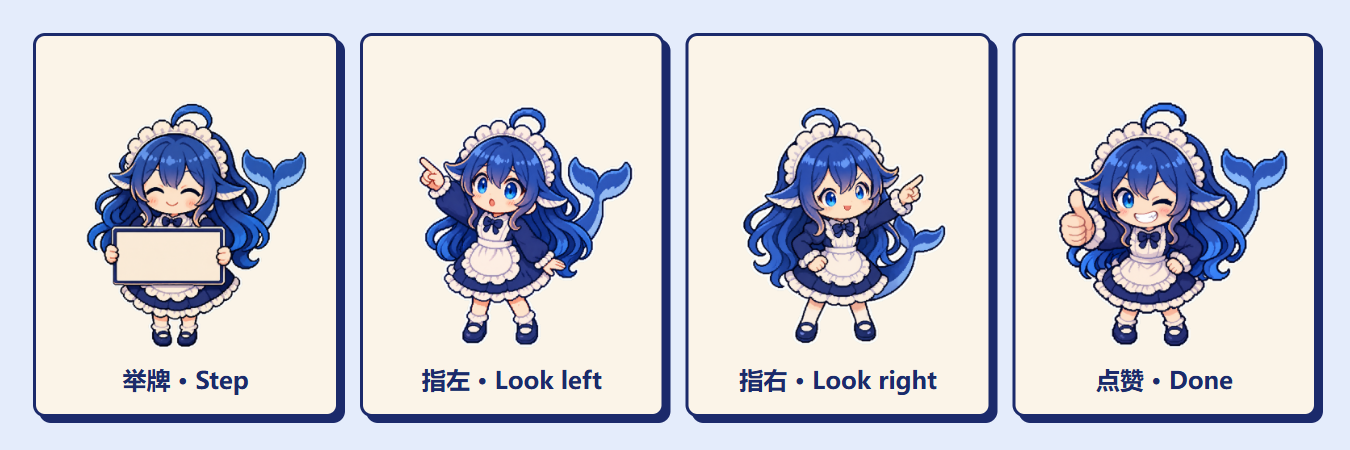
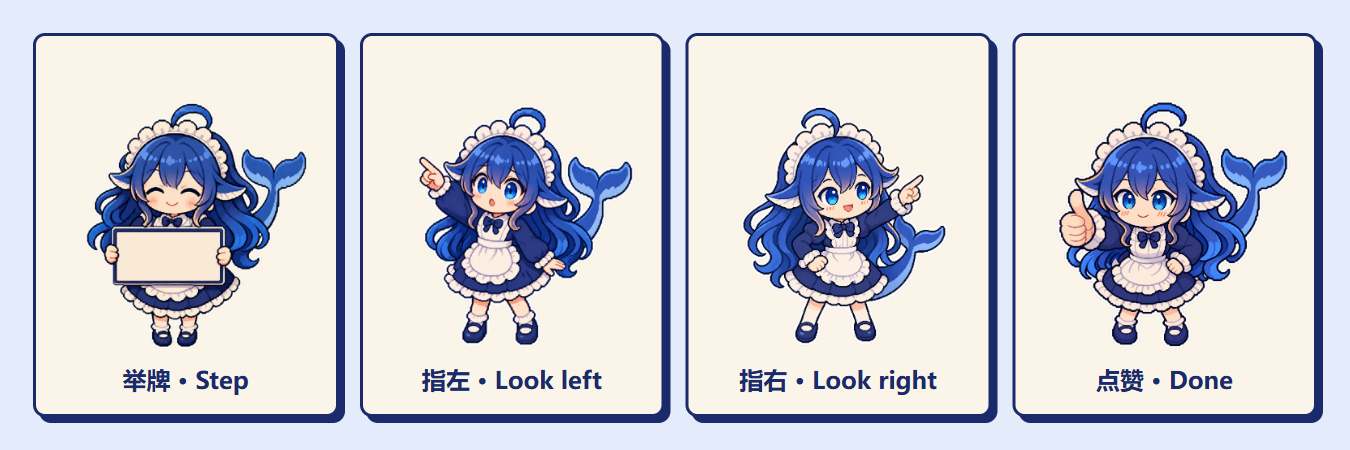
Match the guide expressions to the original whale girl stickers

diff --git a/images/whale-girl/README.md b/images/whale-girl/README.md
@@ -25,15 +25,15 @@ Die Originale dienen der Gestaltung und Dokumentation. Das Plugin lädt transpar
 
 ## Guide poses · 引导员动作 · Posen der Begleiterin
 
-Four poses guide readers through the step-by-step screenshots on the project page. They were produced with an image generator from the waving and note-taking stickers above, and the green background was removed locally. The files here are 1264 × 1264 transparent PNGs. The plugin does not bundle them.
+Four poses guide readers through the step-by-step screenshots on the project page. They were produced with an image generator from the waving and note-taking stickers above, and the green background was removed locally. All guide poses are transparent PNGs. Poses 07 and 08 are 1264 × 1264, and the revised poses 09 and 10 are 1254 × 1254. The plugin does not bundle them.
 
-四款动作用在项目主页的分步引导截图里。它们以上面的挥手和记笔记贴纸为参考，由图像生成工具生成，再在本地去掉绿色背景。这里的文件是 1264 × 1264 透明 PNG，不随插件安装。
+四款动作用在项目主页的分步引导截图里。它们以上面的挥手和记笔记贴纸为参考，由图像生成工具生成，再在本地去掉绿色背景。引导图均为透明 PNG。07、08 号为 1264 × 1264，重画后的 09、10 号为 1254 × 1254，不随插件安装。
 
-Vier Posen begleiten die Schritt-für-Schritt-Bildschirmfotos auf der Projektseite. Sie wurden mit einem Bildgenerator aus den Stickern für Begrüßung und Notizen oben erzeugt, der grüne Hintergrund wurde lokal entfernt. Die Dateien hier sind transparente PNGs mit 1264 × 1264 Pixeln. Das Plugin enthält sie nicht.
+Vier Posen begleiten die Schritt-für-Schritt-Bildschirmfotos auf der Projektseite. Sie wurden mit einem Bildgenerator aus den Stickern für Begrüßung und Notizen oben erzeugt, der grüne Hintergrund wurde lokal entfernt. Alle Posen sind transparente PNGs. 07 und 08 messen 1264 × 1264 Pixel, die überarbeiteten Posen 09 und 10 messen 1254 × 1254 Pixel. Das Plugin enthält sie nicht.
 
 | Illustration | 场景 | Where it appears | Einsatzort |
 | --- | --- | --- | --- |
 | <a href="07-guide-sign.png"><img src="07-guide-sign.png" width="120" alt="举牌 / Holding a sign / Schild halten"></a> | 每组引导的起始步和对话框步骤 | First step of each guide and dialog steps | Erster Schritt jeder Anleitung und Dialogschritte |
 | <a href="08-guide-point-left.png"><img src="08-guide-point-left.png" width="120" alt="指左 / Pointing left / Nach links zeigen"></a> | 标注在左侧的步骤 | Steps whose callouts are on the left | Schritte mit Markierungen links |
-| <a href="09-guide-point-right.png"><img src="09-guide-point-right.png" width="120" alt="指右 / Pointing right / Nach rechts zeigen"></a> | 标注在右侧的步骤；2026-11-13 按形象基线重画脸部 | Steps whose callouts are on the right; face redrawn to the character baseline on 2026-11-13 | Schritte mit Markierungen rechts; Gesicht am 13.11.2026 nach der Charaktervorgabe neu gezeichnet |
-| <a href="10-guide-thumbs-up.png"><img src="10-guide-thumbs-up.png" width="120" alt="点赞 / Thumbs up / Daumen hoch"></a> | 每组引导的最后一步 | Last step of a guide | Letzter Schritt einer Anleitung |
+| <a href="09-guide-point-right.png"><img src="09-guide-point-right.png" width="120" alt="指右 / Pointing right / Nach rechts zeigen"></a> | 标注在右侧的步骤，睁眼浅笑 | Steps with callouts on the right, eyes open with a small smile | Schritte mit Markierungen rechts, offene Augen und ein kleines Lächeln |
+| <a href="10-guide-thumbs-up.png"><img src="10-guide-thumbs-up.png" width="120" alt="点赞 / Thumbs up / Daumen hoch"></a> | 引导的最后一步，闭嘴微笑 | Last step of a guide, with a soft closed-mouth smile | Letzter Schritt einer Anleitung, mit einem sanften Lächeln |

diff --git a/README.de.md b/README.de.md
@@ -70,7 +70,7 @@ Für Desktop die integrierte Pluginverwaltung verwenden. Eine Installation im Pr
 
 Das Walmädchen führt durch die Anleitung. Die Nummern in jedem Bildschirmfoto gehören zu den Schritten darunter, und das Schild zeigt die Position in der Abfolge. Die Bildschirmfotos zeigen Beispieldokumente im Design Marine-Pixel. Die Oberfläche ist chinesisch.
 
-![Die vier Posen der Begleiterin: Schild halten, nach links zeigen, nach rechts zeigen, Daumen hoch](images/guide/guide-poses.png)
+![Vier Posen des Walmädchens: Schild halten, nach links zeigen, lächelnd nach rechts zeigen und Daumen hoch](images/guide/guide-poses.png)
 
 ### Bibliothek: importieren und ordnen
 

diff --git a/README.md b/README.md
@@ -70,7 +70,7 @@ For Desktop, use its plugin manager. A `web` profile installation does not insta
 
 The whale girl is your guide. The numbers in each screenshot match the steps below it, and her sign shows where you are in the sequence. The screenshots use sample documents and the Navy Pixel theme. The interface is in Chinese.
 
-![The guide’s four poses: holding a sign, pointing left, pointing right, thumbs up](images/guide/guide-poses.png)
+![Four whale girl poses: holding a sign, pointing left, pointing right with a small smile, and giving a thumbs up](images/guide/guide-poses.png)
 
 ### Library: import and organize
 

diff --git a/README.zh-CN.md b/README.zh-CN.md
@@ -70,7 +70,7 @@ dsh plugin --profile web add "github:Popipot/DSH-Reading-Plugin#main"
 
 鲸鱼娘是这里的引导员。每张截图里的编号对应图下的步骤，右下角的牌子标出这是第几步。截图使用示例文档和「藏青像素」主题。
 
-![引导员的四个动作：举牌、指左、指右、点赞](images/guide/guide-poses.png)
+![鲸鱼娘举牌、指左、浅笑指右和微笑点赞](images/guide/guide-poses.png)
 
 ### 书架：导入和整理
 
